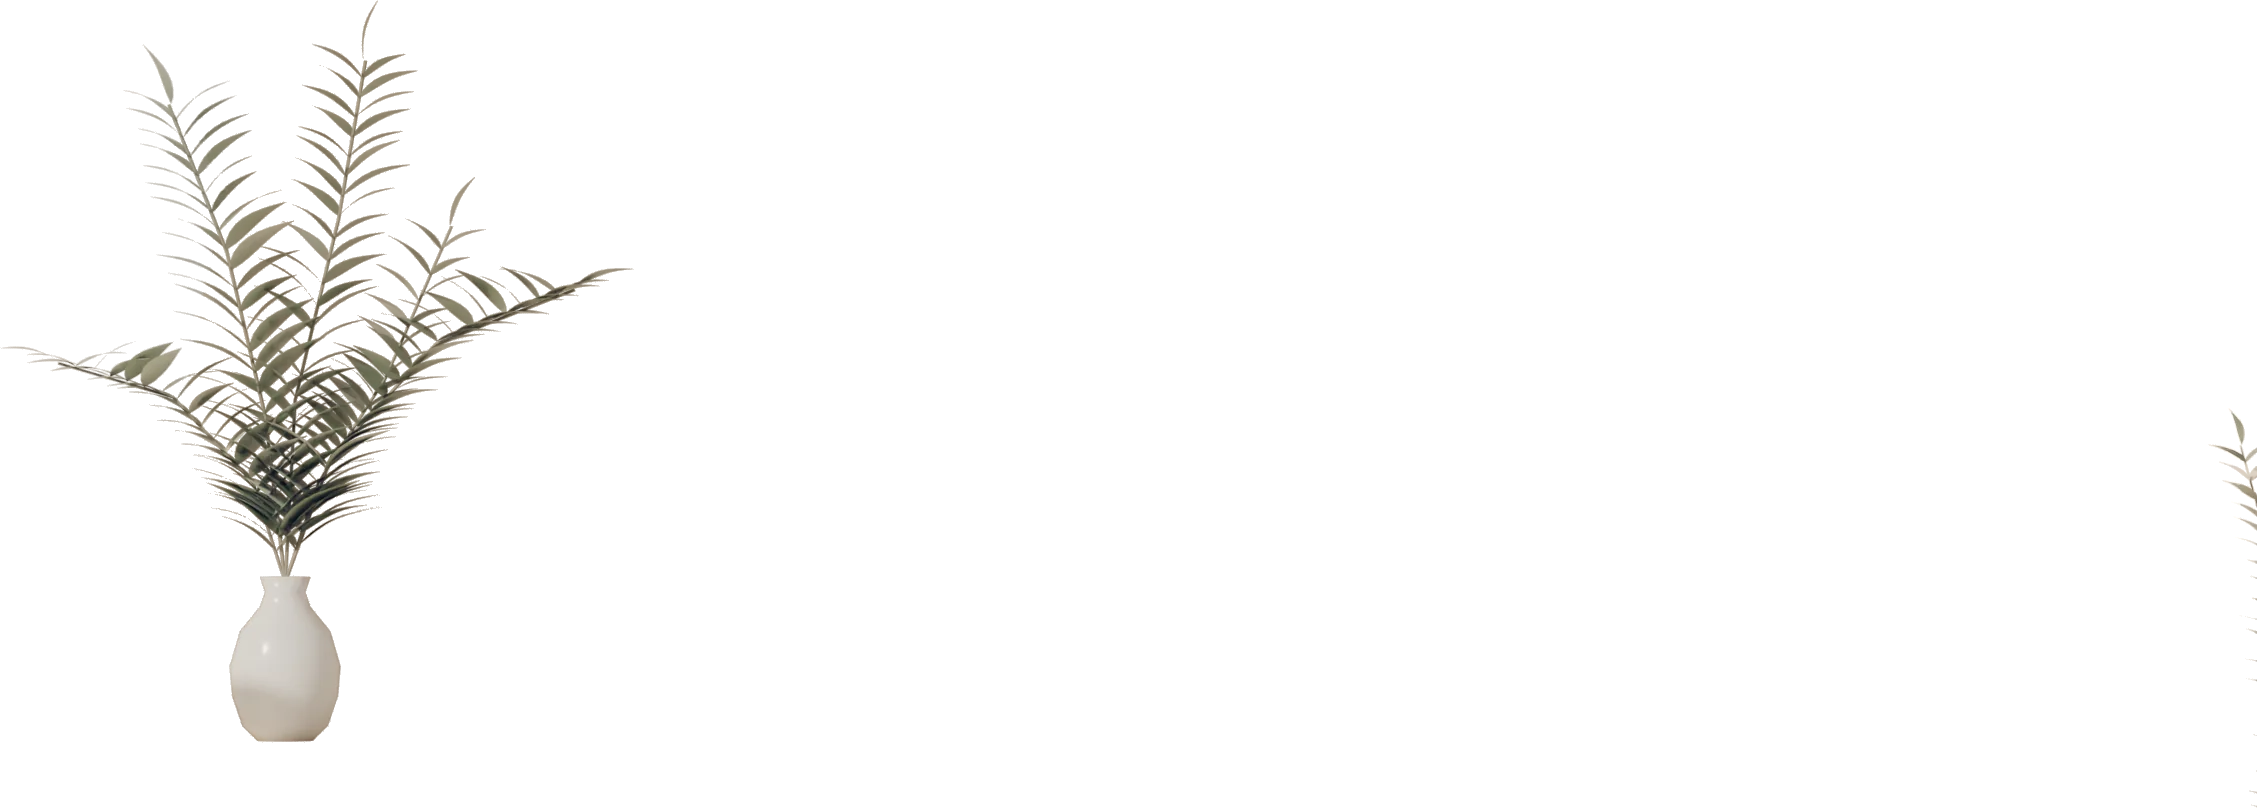
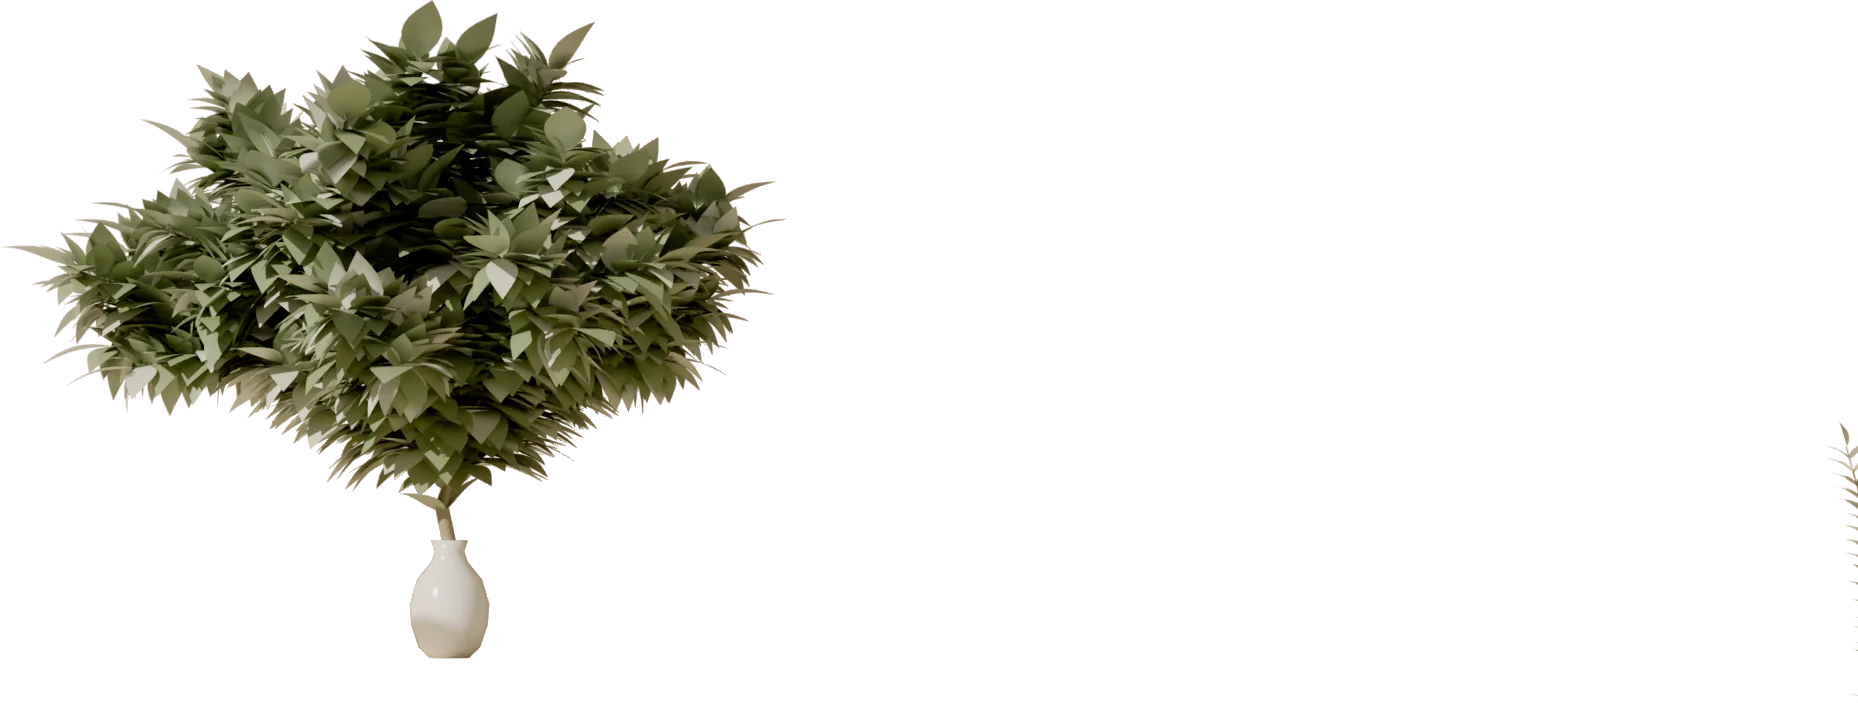
Каталог: свет и цвет сцены как на главной, пышное дерево, песочная полоса
- сцена шоурума (scene.py): тёплое золотисто-кремовое солнце (9), look «AgX - Punchy», экспозиция −0,25; цветокоррекция без холодного сдвига и без молочной дымки (только гамма .84) — по статистике кадра теперь как у кадров главной (насыщенность ≈ .24, размах яркости ≈ 130, тёплые коричневые тени вместо серо-голубых)
- слева вместо тонкой ветки — «пышное дерево» lush_tree() (веер длинных дуг с густыми листьями, как build_tree на главной); параметры TREE_*, свет — SUN/FILL/EXPO/LOOK, быстрый кадр — PREVIEW_OUT
- перерисованы слои assets/showroom (shell, niche, ring, dais, plant, pod) и layers.json
- css/system.css: «Выберите направление ухода» лежит на тёплой песочной полосе #efe7d6 (как .rd-clinical на главной), --clin на каталоге тот же
- tools/check-showroom.js: плавная прокрутка не должна влиять на проверку появления плиток (scrollIntoView instant)
- docs/DESIGN-SYSTEM.md: как держать свет и цвет каталога в одной гамме с главной

Claude-Session: https://claude.ai/code/session_01KiYDNmZLp2gU5DkgoBCDTD

Changed region(s): [[0.0, 0.0, 0.4058, 0.9559], [0.9677, 0.5377, 1.0, 0.926], [0.9989, 0.9858, 1.0, 1.0]]

diff --git a/css/system.css b/css/system.css
@@ -216,6 +216,11 @@ body[data-page="catalog"] #main{overflow-x:clip}                       /* рас
 .shw-dirs,.shw-brands,.shw-list{position:relative}
 .shw-dirs::after{content:"";position:absolute;z-index:-1;width:min(1060px,66vw);aspect-ratio:412/396;background:url(../assets/bg/astreya-mark-bg.svg) 0 0/100% 100% no-repeat;pointer-events:none;-webkit-mask-image:radial-gradient(closest-side,#000 62%,transparent 100%);mask-image:radial-gradient(closest-side,#000 62%,transparent 100%)}
 .shw-dirs::after{right:calc(50% - 50vw - 180px);top:-170px}
+/* палитра как на главной: «Выберите направление ухода» лежит на тёплой песочной полосе (как .rd-clinical на главной — тот же цвет #efe7d6 и мягкие края), во всю ширину экрана; текстура и знак — поверх полосы (isolation) */
+body[data-page="catalog"]{--clin:#efe7d6}
+.shw-dirs{--sand-f:clamp(48px,6vw,96px);isolation:isolate;margin-inline:calc(50% - 50vw);padding:var(--sand-f) calc(50vw - 50%);margin-top:max(0px,calc(clamp(40px,5vw,72px) - var(--sand-f)));background:linear-gradient(180deg,rgba(239,231,214,0) 0,var(--clin) var(--sand-f),var(--clin) calc(100% - var(--sand-f)),rgba(239,231,214,0) 100%)}
+.shw-dirs::after{top:calc(-170px + var(--sand-f))}
+.shw-dirs+.shw-brands{margin-top:0}
 /* большой список: за колонкой, по краям экрана, друг за другом идут разные текстуры (крем, плёнки, мазок, капля, вода…): у каждой мягкие края (маска в css/backdrops.css), соседние перекрываются, так что обрывов нет */
 .shw-list>.shw-list-bg{position:absolute;inset:0;z-index:-1;margin:0;pointer-events:none;clip-path:inset(0 -100vw)}
 .shw-list-bg>i[data-bd]{position:absolute;left:0;right:0;top:calc(var(--i) * 620px);height:960px}

diff --git a/tools/check-showroom.js b/tools/check-showroom.js
@@ -210,9 +210,9 @@ const userMsgs = p => p.evaluate(() => [...document.querySelectorAll('.asst-u .a
   const RM = await p.evaluate(() => [...document.querySelector('.shw-stage').getAnimations({subtree: true})].filter(a => a.effect && a.effect.getKeyframes().some(k => k.transform && k.transform !== 'none')).length);
   ok(RM === 0, 'reduced-motion: перестройка сцены без пространственных анимаций (только прозрачность)', RM); await wait(800);
   ok((await items(p)).length === EXP.sun, 'reduced-motion: фильтр работает');
-  await p.evaluate(() => { document.documentElement.classList.add('lite'); document.querySelector('.shw-dirs').scrollIntoView({block: 'start'}); }); await wait(500);
+  await p.evaluate(() => { document.documentElement.classList.add('lite'); document.querySelector('.shw-dirs').scrollIntoView({block: 'start', behavior: 'instant'}); }); await wait(500);
   const AN = await p.evaluate(() => ['.shw-dir', '.shw-task', '.shw-brand'].map(q => { const e = document.querySelector(q); return q + ':' + (e ? getComputedStyle(e).animationName : 'нет'); }));
-  await p.evaluate(() => document.querySelector('.shw-tasks').scrollIntoView({block: 'start'})); await wait(500);
+  await p.evaluate(() => document.querySelector('.shw-tasks').scrollIntoView({block: 'start', behavior: 'instant'})); await wait(500);
   const AN2 = await p.evaluate(() => getComputedStyle(document.querySelector('.shw-task')).animationName);
   ok(AN.some(x => /^\.shw-dir:axTile/.test(x)) && /axTile/.test(AN2), 'плитки «Выберите направление…», «Подберите по задаче», «Бренды…» появляются анимацией даже при «уменьшить движение» и в «лёгком режиме»', {AN, AN2});
   await p.ctx.close();

diff --git a/tools/showroom-assets/scene.py b/tools/showroom-assets/scene.py
@@ -188,6 +188,48 @@ def leaf_mesh(L=.17, Wd=.05):
     for p in me.polygons: p.use_smooth = True
     return me
 
+def lush_tree(base, me, me2, stem_m):
+    """пышное дерево в вазе (то же построение, что build_tree на главной, hall_story.py): изогнутый ствол и ярус ветвей веером — длинные дуги с густыми парами листьев; ветви не уходят назад в стену и раму арки"""
+    import random; rnd = random.Random(77)
+    H = float(os.environ.get('TREE_H', .46)); R = float(os.environ.get('TREE_R', 1.25)); nb = int(os.environ.get('TREE_NB', 36)); per = int(os.environ.get('TREE_PER', 60)); lk = float(os.environ.get('TREE_LK', 1.7)); el0, el1 = (float(v) for v in os.environ.get('TREE_EL', '.3,1.1').split(','))
+    up = Vector((0, 0, 1)); grp = 'plant'
+    def limb(pts, count, k, bevel):
+        cu = bpy.data.curves.new('tl', 'CURVE'); cu.dimensions = '3D'; sp = cu.splines.new('POLY'); sp.points.add(len(pts) - 1)
+        for i, p in enumerate(pts): sp.points[i].co = (*p, 1)
+        cu.bevel_depth = bevel; cu.bevel_resolution = 2; cu.materials.append(stem_m)
+        link(bpy.data.objects.new('tl', cu), grp)
+        def at(t):
+            f = t * (len(pts) - 1); i = min(int(f), len(pts) - 2); return pts[i].lerp(pts[i + 1], f - i)
+        for i in range(1, count + 1):
+            t = i / (count + 1) * .93 + .07; pos = at(t); d = (at(min(1, t + .03)) - pos).normalized()
+            u = d.cross(up)
+            if u.length < .2: u = d.cross(Vector((1, 0, 0)))
+            u.normalize(); v = d.cross(u); phi = rnd.uniform(0, 6.283)
+            for side in (0, 1):
+                a = phi + side * 3.1416 + rnd.uniform(-.5, .5)
+                dv = d * .55 + (u * math.cos(a) + v * math.sin(a)) * 1.0 + Vector((0, 0, rnd.uniform(-.1, .3)))
+                if dv.y > .35: dv.y = .35                                                              # листья не лезут назад, в стену
+                ob = bpy.data.objects.new('lf', me if rnd.random() > .3 else me2); link(ob, grp)
+                ob.scale = ((1.1 - .4 * t) * (.8 + rnd.random() * .4) * lk,) * 3
+                ob.rotation_euler = dv.normalized().to_track_quat('Y', 'Z').to_euler(); ob.location = pos
+        ob = bpy.data.objects.new('lf', me); link(ob, grp); ob.scale = (lk,) * 3
+        ob.rotation_euler = (at(1) - at(.9)).normalized().to_track_quat('Y', 'Z').to_euler(); ob.location = at(1)
+        return at
+    b = Vector(base)
+    trunk = limb([b, b + Vector((-.03, -.02, H * .35)), b + Vector((.03, -.03, H * .7)), b + Vector((-.05, -.04, H))], 4, .9, .03)
+    for j in range(nb):
+        az = 6.283 * (j + rnd.random() * .7) / nb; el = rnd.uniform(el0, el1)
+        d = Vector((math.cos(az) * math.cos(el), math.sin(az) * math.cos(el), math.sin(el)))
+        if d.y > .25: d.y = .25; d.normalize()                                                         # ветви веером вперёд, вбок и вверх — не в стену
+        P0 = trunk(rnd.uniform(.45, 1.0)); Lb = R * rnd.uniform(.8, 1.2)
+        pts = [P0, P0 + d * Lb * .34 + Vector((0, 0, .06)), P0 + d * Lb * .68 + Vector((0, 0, .10 * Lb)), P0 + d * Lb + Vector((0, 0, -.12 * Lb * (1.1 - math.sin(el))))]
+        at = limb(pts, per, 1.0, .009)
+        for t in (.30, .46, .62, .78):
+            P = at(t); az2 = az + rnd.choice((-1, 1)) * rnd.uniform(.5, .9); d2 = Vector((math.cos(az2) * math.cos(el), math.sin(az2) * math.cos(el), math.sin(el) * .8 + .15))
+            if d2.y > .25: d2.y = .25
+            d2.normalize(); L2 = Lb * rnd.uniform(.3, .45)
+            limb([P, P + d2 * L2 * .5 + Vector((0, 0, .04)), P + d2 * L2 + Vector((0, 0, -.03))], max(18, per // 3), .92, .006)
+
 def plant(M):
     import random; rnd = random.Random(5)
     m1 = mk('leafA'); nt = m1[1]; b = m1[2]; val(b, (.30, .38, .19, 1), 'Base Color'); val(b, .5, 'Roughness'); val(b, .25, 'Transmission Weight', 'Transmission'); val(b, .3, 'Subsurface Weight'); val(b, (.45, .5, .26), 'Subsurface Radius') if False else None
@@ -226,11 +268,14 @@ def plant(M):
         # верхний листок
         ob = bpy.data.objects.new('lf', me); link(ob, grp); ob.scale = (sc * .7,) * 3; ob.rotation_euler = at(1.0).__sub__(at(.97)).normalized().to_track_quat('Y', 'Z').to_euler(); ob.location = at(1.0)
     base = (-1.9, -0.7, 0.55 + .48)
-    branch(base, [(0, 0, 0), (-.06, 0, .5), (-.18, .02, 1.0), (-.36, .04, 1.45)], 22, 1.7)
-    branch(base, [(0, 0, 0), (.14, 0, .38), (.46, -.02, .72), (.88, -.05, .88)], 22, 1.6)
-    branch(base, [(0, 0, 0), (-.1, .02, .3), (-.34, 0, .56), (-.68, -.03, .66)], 18, 1.5)
-    branch(base, [(0, 0, 0), (.03, 0, .55), (.16, .01, 1.1), (.24, .02, 1.58)], 22, 1.6)
-    branch(base, [(0, 0, 0), (.1, 0, .3), (.3, .03, .62), (.5, .03, 1.08)], 16, 1.4)
+    if os.environ.get('LUSH', '1') == '1':
+        lush_tree(base, me, me2, stem[0])                                                                   # пышное дерево, как на главной (веер длинных дуг с густыми листьями)
+    else:
+        branch(base, [(0, 0, 0), (-.06, 0, .5), (-.18, .02, 1.0), (-.36, .04, 1.45)], 22, 1.7)
+        branch(base, [(0, 0, 0), (.14, 0, .38), (.46, -.02, .72), (.88, -.05, .88)], 22, 1.6)
+        branch(base, [(0, 0, 0), (-.1, .02, .3), (-.34, 0, .56), (-.68, -.03, .66)], 18, 1.5)
+        branch(base, [(0, 0, 0), (.03, 0, .55), (.16, .01, 1.1), (.24, .02, 1.58)], 22, 1.6)
+        branch(base, [(0, 0, 0), (.1, 0, .3), (.3, .03, .62), (.5, .03, 1.08)], 16, 1.4)
     # ветка в нише (справа внизу)
     branch((5.0, 1.5, 0.0), [(0, 0, 0), (0, 0, .5), (-.06, 0, 1.05), (-.2, 0, 1.55)], 20, 1.2, 'plant')
     # тени листьев на стене: ветки висят вне кадра на пути солнечного луча и невидимы камере, но отбрасывают чёткие тени
@@ -244,7 +289,7 @@ def plant(M):
 
 def lights(sc):
     # окно: солнце сквозь переплёт (переплёт невидим для камеры, но отбрасывает тень)
-    sun = bpy.data.lights.new('sun', 'SUN'); sun.energy = float(os.environ.get('SUN', 4.0)); sun.angle = math.radians(float(os.environ.get('SUN_ANGLE', 0.35))); sun.color = (1.0, .93, .80)
+    sun = bpy.data.lights.new('sun', 'SUN'); sun.energy = float(os.environ.get('SUN', 9.0)); sun.angle = math.radians(float(os.environ.get('SUN_ANGLE', 0.35))); sun.color = (1.0, .93, .80)
     so = bpy.data.objects.new('sun', sun); bpy.context.collection.objects.link(so)
     direction = Vector((.62, .72, -.55)).normalized(); so.rotation_euler = direction.to_track_quat('-Z', 'Y').to_euler(); so.location = (-6, -9, 7)
     mat = mat_simple('frame', (.1, .1, .1))
@@ -261,7 +306,7 @@ def lights(sc):
     for v in np.linspace(v_min, v_max, 4): bar(u_min, v - .06, u_max, v + .06)
     bar(u_min - 4, v_max, u_max + 4, v_max + 4); bar(u_min - 4, v_min - 4, u_max + 4, v_min); bar(u_min - 4, v_min, u_min, v_max); bar(u_max, v_min, u_max + 4, v_max)
     # мягкий заполняющий свет «из зала»
-    ar = bpy.data.lights.new('fill', 'AREA'); ar.energy = float(os.environ.get('FILL', 380)); ar.size = 9; ar.size_y = 5; ar.color = (1.0, .93, .82)
+    ar = bpy.data.lights.new('fill', 'AREA'); ar.energy = float(os.environ.get('FILL', 340)); ar.size = 9; ar.size_y = 5; ar.color = (1.0, .93, .82)
     ao = bpy.data.objects.new('fill', ar); bpy.context.collection.objects.link(ao); ao.location = (-2.5, -11.0, 5.5); ao.rotation_euler = (math.radians(70), 0, math.radians(8))
     ao.visible_camera = False
     w = bpy.data.worlds.new('w'); w.use_nodes = True; bg = w.node_tree.nodes['Background']; bg.inputs['Color'].default_value = (.98, .90, .78, 1); bg.inputs['Strength'].default_value = float(os.environ.get('WORLD', 0.30)); sc.world = w
@@ -271,7 +316,7 @@ def settings(sc, w=W, h=H, spp=SPP):
     cy.max_bounces = 8; cy.diffuse_bounces = 5; cy.glossy_bounces = 4; cy.transmission_bounces = 6; cy.transparent_max_bounces = 12; cy.caustics_reflective = False; cy.caustics_refractive = False
     cy.sample_clamp_indirect = 8
     sc.render.resolution_x = w; sc.render.resolution_y = h; sc.render.resolution_percentage = 100
-    sc.view_settings.view_transform = 'AgX'; sc.view_settings.look = 'AgX - Base Contrast'; sc.view_settings.exposure = float(os.environ.get('EXPO', -0.1))
+    sc.view_settings.view_transform = 'AgX'; sc.view_settings.look = os.environ.get('LOOK', 'AgX - Punchy'); sc.view_settings.exposure = float(os.environ.get('EXPO', -0.25))
     sc.render.image_settings.file_format = 'PNG'; sc.render.image_settings.color_mode = 'RGBA'; sc.render.image_settings.color_depth = '16'
 
 LAYERS = ['shell', 'niche', 'ring', 'dais', 'plant', 'pod']
@@ -311,9 +356,9 @@ def pod_sprites(sc, cam, f, meta):
     print('pod', meta['pod'], flush=True)
 
 def grade(a, sat=None, lift=None, cool=None, gamma=None):
-    """цветокоррекция слоёв под палитру сайта: чуть приглушаем тёплую «коричневу», добавляем молочную дымку (ivory/milk) и уводим глубокие тени в холодный тёмно-синий — цвет бренда. Применяется ко всем слоям одинаково."""
-    sat = float(os.environ.get('GRADE_SAT', .86)) if sat is None else sat; lift = float(os.environ.get('GRADE_LIFT', .09)) if lift is None else lift
-    cool = float(os.environ.get('GRADE_COOL', 1.4)) if cool is None else cool; gamma = float(os.environ.get('GRADE_GAMMA', .95)) if gamma is None else gamma
+    """цветокоррекция слоёв под палитру главной (тёплый золотисто-кремовый зал: яркий свет, насыщенные тёплые тени, без холодного сдвига): по умолчанию только гамма (.84) — насыщенность, молочная дымка (GRADE_LIFT) и холодный сдвиг теней (GRADE_COOL) выключены, но оставлены параметрами. Применяется ко всем слоям одинаково."""
+    sat = float(os.environ.get('GRADE_SAT', 1.0)) if sat is None else sat; lift = float(os.environ.get('GRADE_LIFT', 0.0)) if lift is None else lift
+    cool = float(os.environ.get('GRADE_COOL', 0.0)) if cool is None else cool; gamma = float(os.environ.get('GRADE_GAMMA', .84)) if gamma is None else gamma
     a = a.astype(np.float32); L = ((a @ np.array([.299, .587, .114], np.float32)) / 255.0)[..., None]
     a = a * sat + (L * 255.0) * (1 - sat)
     k = lift * (.35 + .65 * L); a = a * (1 - k) + np.array([250, 246, 237], np.float32) * k
@@ -379,7 +424,7 @@ def main():
     else: settings(sc)
     M = build(sc); lights(sc); cam = set_cam(sc)
     if mode == 'preview':
-        sc.render.film_transparent = False; sc.render.filepath = '/tmp/scene_preview.png'; bpy.ops.render.render(write_still=True); print('preview done'); print(json.dumps(anchors(sc, cam))); return
+        sc.render.film_transparent = False; sc.render.filepath = os.environ.get('PREVIEW_OUT', '/tmp/scene_preview.png'); bpy.ops.render.render(write_still=True); print('preview done'); print(json.dumps(anchors(sc, cam))); return
     names = [n for n in os.environ.get('SCENE_LAYERS', ','.join(LAYERS)).split(',') if n]
     render_layers(sc, cam, names)
 

diff --git a/docs/DESIGN-SYSTEM.md b/docs/DESIGN-SYSTEM.md
@@ -64,4 +64,4 @@
 2. Подиумы — только там, где улучшают композицию. На сцене у каждого товара свой подиум, подиумы не перекрываются, упаковка занимает не больше 82 % его ширины.
 3. Реальные данные: товары, бренды, категории, задачи — из `data/*.json`. Фото товара (`image`) показывается как есть; пока его нет — нейтральный 3D-макет без текста (помечено «условное изображение»).
 4. Тяжёлые эффекты (backdrop-filter, blend-режимы, большие размытия на повторяющихся элементах) не используются; в «лёгком режиме» (`html.lite`) и при `prefers-reduced-motion` переходы отключаются.
-5. Пересборка сцены: `scene.py` (рендер слоёв), `glass.py` (стекло), `packs.py` (упаковки); цветокоррекция слоёв под палитру — `grade()` в `scene.py`, без повторного рендера: `SCENE_COMPOSE_ONLY=1`.
+5. Пересборка сцены: `scene.py` (рендер слоёв), `glass.py` (стекло), `packs.py` (упаковки); цветокоррекция слоёв под палитру — `grade()` в `scene.py`, без повторного рендера: `SCENE_COMPOSE_ONLY=1`. Свет и цвет сцены каталога держим теми же, что у главной (тёплое золотисто-кремовое солнце 9, look «AgX - Punchy», экспозиция −0,25; тени тёплые, не серо-голубые): сверять по статистике кадра (средний цвет, насыщенность ≈ .23, размах яркости ≈ 110–130, тёмные 10 % — тёплые коричневые) с кадрами главной. Растение слева — «пышное дерево» `lush_tree()` (веер длинных дуг с густыми листьями, как на главной): размер и густота — `TREE_R`, `TREE_NB`, `TREE_PER`, `TREE_LK`, `TREE_EL`; быстрый кадр — `python3 tools/showroom-assets/scene.py preview` (свет — `SUN`, `FILL`, `EXPO`, `LOOK`; результат — `PREVIEW_OUT`). Блок «Выберите направление ухода» лежит на тёплой песочной полосе `#efe7d6` (как `.rd-clinical` на главной).
